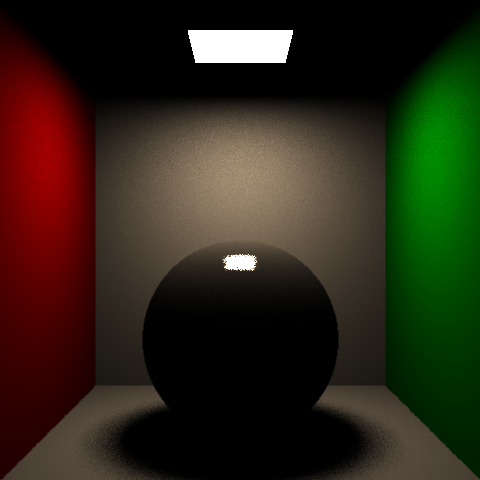
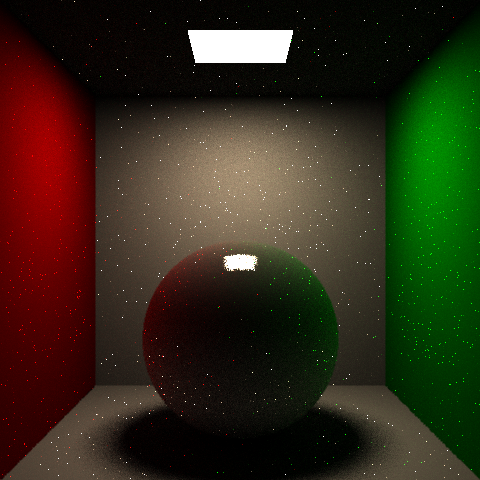
WIP BRDF Phong Sampling

Changed region(s): [[0.2812, 0.5, 0.7188, 0.875]]

diff --git a/src/raytracer.cpp b/src/raytracer.cpp
@@ -1051,6 +1051,9 @@ glm::vec3 PathTracerFindColor(UniformGrid* grid, const Ray& ray, Scene* scene, C
 	glm::vec3 R = glm::reflect(-wi, intersection.hitObjectNormal);
 	float spec = std::pow(std::max(glm::dot(R, wo), 0.0f), intersection.hitObjectShininess);
 
+
+	float pdf = 0.0f;
+	float cosTheta = std::max(glm::dot(intersection.hitObjectNormal, wi), 0.0f);
 	glm::vec3 brdf;
 	float xi0 = RandFloat();
 	float xi1 = RandFloat();
@@ -1068,7 +1071,7 @@ glm::vec3 PathTracerFindColor(UniformGrid* grid, const Ray& ray, Scene* scene, C
 
 		brdf =
 			(intersection.hitObjectDiffuse / (float)M_PI) +
-			(intersection.hitObjectSpecular * ((intersection.hitObjectShininess + 2.0f) / ( 2.0f * (float)M_PI)) * spec);
+			(intersection.hitObjectSpecular * ((intersection.hitObjectShininess + 2.0f) / (2.0f * (float)M_PI)) * spec);
 	}
 	else if (importanceSampling == "brdf")
 	{
@@ -1076,6 +1079,10 @@ glm::vec3 PathTracerFindColor(UniformGrid* grid, const Ray& ray, Scene* scene, C
 		float kd_avg = (intersection.hitObjectDiffuse.r + intersection.hitObjectDiffuse.g + intersection.hitObjectDiffuse.b) / 3.0f;
 
 		float t = ks_avg / (ks_avg + kd_avg + 1e-6f); // Avoid division by zero
+
+		float sum = kd_avg + ks_avg;
+		float pSpec = (sum > 0.0f) ? (ks_avg / sum) : 0.0f;
+		float pDiffuse = 1.0f - pSpec;
 
 		z = RandFloat();
 		float gamma = glm::acos(glm::pow(z, 1 / (intersection.hitObjectShininess + 1)));
@@ -1125,26 +1132,20 @@ glm::vec3 PathTracerFindColor(UniformGrid* grid, const Ray& ray, Scene* scene, C
 			Intersection secondaryIntersection = FindIntersection(grid, scene, secondaryRay, false);
 			glm::vec3 wo = glm::normalize(ray.origin - intersection.intersectionPoint);
 			glm::vec3 wi = glm::normalize(w_i);
-
 			glm::vec3 R = glm::reflect(-wo, intersection.hitObjectNormal);
+
 			float spec = std::pow(std::max(glm::dot(R, wi), 0.0f), intersection.hitObjectShininess);
 
 
-			w_i = s.x * u + s.y * v + s.z * w;	
+			w_i = s.x * u + s.y * v + s.z * w;
 
 
 
-			if (glm::dot(w_i, intersection.hitObjectNormal) >= 0.0f)
-			{
-				brdf =
-					(1 - t) * (intersection.hitObjectNormal * w_i) / (float)M_PI + (t * (intersection.hitObjectSpecular * ((intersection.hitObjectShininess + 1.0f) / (2.0f * (float)M_PI)) * spec));
+			brdf =
+				(intersection.hitObjectDiffuse / (float)M_PI) +
+				(intersection.hitObjectSpecular * ((intersection.hitObjectShininess + 2.0f) / (2.0f * (float)M_PI))) * spec;
 
-				brdf /= 2.0f * (float)M_PI;
-			}
-			else
-			{
-				brdf = glm::vec3(0.0f);
-			}
+
 
 		}
 		else
@@ -1177,12 +1178,22 @@ glm::vec3 PathTracerFindColor(UniformGrid* grid, const Ray& ray, Scene* scene, C
 
 			glm::vec3 w_i = s.x * u + s.y * v + s.z * w;
 
-			brdf = (1 - t)* (intersection.hitObjectNormal * w_i) / (float)M_PI + (t * (intersection.hitObjectSpecular * ((intersection.hitObjectShininess + 1.0f) / (2.0f * (float)M_PI)) * spec));
+			brdf =
+				(intersection.hitObjectDiffuse / (float)M_PI) +
+				(intersection.hitObjectSpecular * ((intersection.hitObjectShininess + 2.0f) / (2.0f * (float)M_PI))) * spec;
 
 			brdf /= 2.0f * (float)M_PI;
 		}
 
+		float cosTheta = std::max(glm::dot(intersection.hitObjectNormal, wi), 0.0f);
+		float pdfDiffuse = cosTheta / (float)M_PI;
 
+		glm::vec3 r = glm::reflect(-wo, intersection.hitObjectNormal);
+		float rDotWi = std::max(glm::dot(r, wi), 0.0f);
+		float pdfSpec = ((intersection.hitObjectShininess + 1.0f) / (2.0f * (float)M_PI)) *
+			std::pow(rDotWi, intersection.hitObjectShininess);
+
+		float pdf = pDiffuse * pdfDiffuse + pSpec * pdfSpec;
 
 	}
 
@@ -1199,17 +1210,29 @@ glm::vec3 PathTracerFindColor(UniformGrid* grid, const Ray& ray, Scene* scene, C
 		}
 		else if (importanceSampling == "brdf")
 		{
-			float ks_avg = (intersection.hitObjectSpecular.r + intersection.hitObjectSpecular.g + intersection.hitObjectSpecular.b) / 3.0f;
-			float kd_avg = (intersection.hitObjectDiffuse.r + intersection.hitObjectDiffuse.g + intersection.hitObjectDiffuse.b) / 3.0f;
-			float t = ks_avg / (ks_avg + kd_avg + 1e-6f); // Avoid division by zero
-			if (xi0 <= t)
+			float cosTheta = std::max(glm::dot(intersection.hitObjectNormal, wi), 0.0f);
+
+			float pdfDiffuse = cosTheta / (float)M_PI;
+
+			glm::vec3 r = glm::reflect(-wo, intersection.hitObjectNormal);
+			float rDotWi = std::max(glm::dot(r, wi), 0.0f);
+			float pdfSpec = ((intersection.hitObjectShininess + 1.0f) / (2.0f * (float)M_PI)) *
+				std::pow(rDotWi, intersection.hitObjectShininess);
+
+			float kdAvg = (intersection.hitObjectDiffuse.r + intersection.hitObjectDiffuse.g + intersection.hitObjectDiffuse.b) / 3.0f;
+			float ksAvg = (intersection.hitObjectSpecular.r + intersection.hitObjectSpecular.g + intersection.hitObjectSpecular.b) / 3.0f;
+			float sum = kdAvg + ksAvg;
+			float pSpec = (sum > 0.0f) ? (ksAvg / sum) : 0.0f;
+			float pDiffuse = 1.0f - pSpec;
+
+			float pdf = pDiffuse * pdfDiffuse + pSpec * pdfSpec;
+
+			if (pdf <= 1e-8f || cosTheta <= 0.0f)
 			{
-				throughput *= brdf * ((t * ((intersection.hitObjectShininess + 2.0f) / (2.0f * (float)M_PI)) * spec)) + ((1.0f - t) * (intersection.hitObjectDiffuse / (float)M_PI));
+				return accumCol;
 			}
-			else
-			{
-				throughput *= brdf * ((1.0f - t) * (intersection.hitObjectDiffuse / (float)M_PI)) * ((t * ((intersection.hitObjectShininess + 2.0f) / (2.0f * (float)M_PI)) * spec));
-			}
+
+			throughput *= brdf * cosTheta / pdf;
 		}
 
 		float q = 1.0f - std::min(std::max(throughput.r, std::max(throughput.g, throughput.b)), 1.0f);
